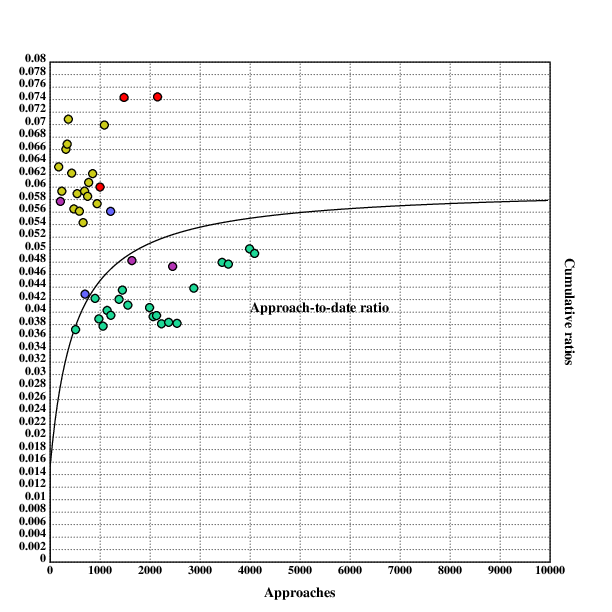
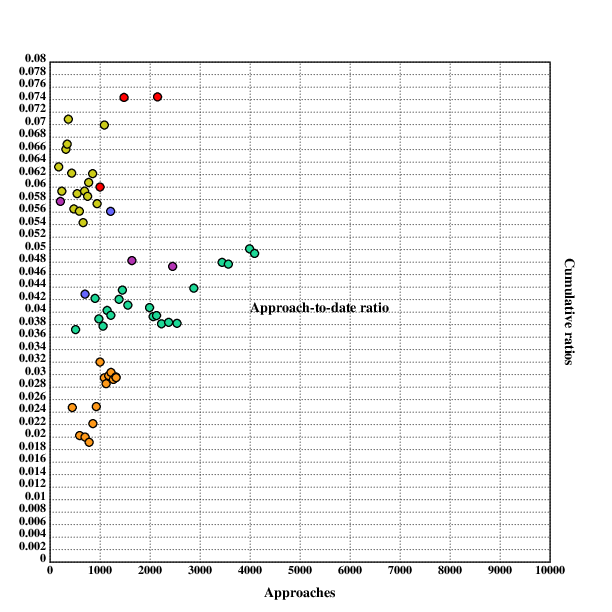
Two quotes on attention spans, and 44 blogposts.

diff --git a/texts_list.md b/texts_list.md
@@ -1,7 +1,7 @@
 [home](./index.md)
 -------------------
 
-*author: niplav, created: 2020-06-25, modified: 2023-03-22, language: english, status: in progress, importance: 1, confidence: log*
+*author: niplav, created: 2020-06-25, modified: 2023-03-28, language: english, status: in progress, importance: 1, confidence: log*
 
 > __Texts I have read since May 2017.__
 
@@ -17,6 +17,44 @@ comments or tweets, because that would be too extensive.
 A '\*' prefix signifies I'm still reading the
 text, a '|123' prefix shows I abandoned reading the text at page 123.
 
+* [Beware over-use of the agent model (Alex Flint, 2021)](https://www.lesswrong.com/posts/2QuAcx8XQw7rrXzGC/beware-over-use-of-the-agent-model)
+* [Gravity Turn (alkjash, 2021)](https://www.lesswrong.com/posts/QcXuwQvvPkqcKZmXS/gravity-turn)
+* [Going Out With Dignity (Tomás B., 2021)](https://www.lesswrong.com/posts/CBWSDdzjqfnexBurB/going-out-with-dignity)
+* [Curing insanity with malaria (Miranda Dxon-Luinenburg, 2021)](https://www.lesswrong.com/posts/AH3iGfz4ArJnXEEYs/curing-insanity-with-malaria)
+* [RadVac Commercial Antibody Test Results (johnswentworth, 2021)](https://www.lesswrong.com/posts/Mqy4GFqJoMSfs8raA/radvac-commercial-antibody-test-results)
+* [Testing The Natural Abstraction Hypothesis: Project Intro (johnswentworth, 2021)](https://www.lesswrong.com/posts/cy3BhHrGinZCp3LXE/testing-the-natural-abstraction-hypothesis-project-intro)
+* [Book Review: A Pattern Language by Christopher Alexander (lincolnquirk, 2021)](https://www.lesswrong.com/posts/K2AWPo7sMsvrrofsM/book-review-a-pattern-language-by-christopher-alexander)
+* [Selection Has A Quality Ceiling (johnswentworth, 2021)](https://www.lesswrong.com/posts/Rrt7uPJ8r3sYuLrXo/selection-has-a-quality-ceiling)
+* [Making Vaccine (johnswentworth, 2021)](https://www.lesswrong.com/posts/niQ3heWwF6SydhS7R/making-vaccine)
+* [Fun with +12 OOMs of Compute (Daniel Kokotajlo, 2021)](https://www.lesswrong.com/posts/rzqACeBGycZtqCfaX/fun-with-12-ooms-of-compute)
+* [Your Cheerful Price (Eliezer Yudkowsky, 2021)](https://www.lesswrong.com/posts/MzKKi7niyEqkBPnyu/your-cheerful-price)
+* Do we have your attention (Bobby Duffy/Marion Thain, 2022)
+* [A few thought on the inner ring (Katja Grace, 2021)](https://www.lesswrong.com/posts/ycrreLRsaANhYxZmC/a-few-thought-on-the-inner-ring)
+* [The Most Important Century: Sequence Introduction (Holden Karnofsky, 2021)](https://www.lesswrong.com/posts/yHzDrTCum4rdNRDJJ/the-most-important-century-sequence-introduction)
+* [The feeling of breaking an Overton window (Anna Salamon, 2021)](https://www.lesswrong.com/posts/bzhGBHrGrFfQss4Df/the-feeling-of-breaking-an-overton-window)
+* [Unwitting cult leaders (Kaj Sotala, 2021)](https://www.lesswrong.com/posts/o9dnstYoc7cwpgdhg/unwitting-cult-leaders)
+* [Precognition (Jason Crawford, 2021)](https://www.lesswrong.com/posts/yyDrMYBfvYtKbmPmm/precognition)
+* [Law of No Evidence (Zvi, 2021)](https://www.lesswrong.com/posts/j9HoG56Y6KuopSzdn/law-of-no-evidence)
+* [The Point of Trade (Eliezer Yudkowsky, 2021)](https://www.lesswrong.com/posts/6KzFwcDy7hsCkzJKY/the-point-of-trade)
+* [Bets, Bonds, and Kindergarteners (jefftk, 2021)](https://www.lesswrong.com/posts/DoHcgTvyxdorAMquE/bets-bonds-and-kindergarteners)
+* [Worst-case thinking in AI alignment (Buck Shlegeris, 2021)](https://www.lesswrong.com/posts/yTvBSFrXhZfL8vr5a/worst-case-thinking-in-ai-alignment)
+* [Simulacrum 3 As Stag-Hunt Strategy (johnswentworth, 2021)](https://www.lesswrong.com/posts/tF8z9HBoBn783Cirz/simulacrum-3-as-stag-hunt-strategy)
+* [Elephant seal 2 (Katja Grace, 2021)](https://www.lesswrong.com/posts/vLRxmYCKpmZAAJ3KC/elephant-seal-2)
+* [Working With Monsters (johnswentworth, 2021)](https://www.lesswrong.com/posts/o4cgvYmNZnfS4xhxL/working-with-monsters)
+* [The Rationalists of the 1950s (and before) also called themselves “Rationalists” (Owain Evans, 2021)](https://www.lesswrong.com/posts/DtcbfwSrcewFubjxp/the-rationalists-of-the-1950s-and-before-also-called)
+* [How To Write Quickly While Maintaining Epistemic Rigor (johnswentworth, 2021)](https://www.lesswrong.com/posts/Psr9tnQFuEXiuqGcR/how-to-write-quickly-while-maintaining-epistemic-rigor)
+* [Cryonics signup guide #1: Overview (mingyuan, 2021)](https://www.lesswrong.com/posts/2cYebKxNp47PapHTL/cryonics-signup-guide-1-overview)
+* [Selection Theorems: A Program For Understanding Agents (johnswentworth, 2021)](https://www.lesswrong.com/posts/G2Lne2Fi7Qra5Lbuf/selection-theorems-a-program-for-understanding-agents)
+* [All Possible Views About Humanity's Future Are Wild (Holden Karnofsky, 2021)](https://www.lesswrong.com/posts/F5ktR95qqpmGXXmLq/all-possible-views-about-humanity-s-future-are-wild-1)
+* [Taboo "Outside View" (Daniel Kokotajlo, 2021)](https://www.lesswrong.com/posts/BcYfsi7vmhDvzQGiF/taboo-outside-view)
+* [Science in a High-Dimensional World (johnswentworth, 2021)](https://www.lesswrong.com/posts/4XRjPocTprL4L8tmB/science-in-a-high-dimensional-world)
+* [Lies, Damn Lies, and Fabricated Options (Duncan Sabien, 2021)](https://www.lesswrong.com/posts/gNodQGNoPDjztasbh/lies-damn-lies-and-fabricated-options)
+* [The heritability of human values: A behavior genetic critique of Shard Theory (Geoffrey Miller, 2022)](https://www.lesswrong.com/posts/dRsrfC8LN4z2oehJg/the-heritability-of-human-values-a-behavior-genetic-critique)
+* [A shot at the diamond-alignment problem (TurnTrout, 2022)](https://www.lesswrong.com/s/nyEFg3AuJpdAozmoX/p/k4AQqboXz8iE5TNXK)
+* [2019 News (Gwern Branwen, 2023)](https://gwern.net/newsletter/2019/13)
+* [All Watched Over by Machines of Loving Grace (Richard Brautigan, 1967)](http://www.brautigan.net/machines.html)
+* [Contra shard theory, in the context of the diamond maximizer problem (So8res, 2022)](https://www.lesswrong.com/posts/Aet2mbnK7GDDfrEQu/contra-shard-theory-in-the-context-of-the-diamond-maximizer)
+* [Alignment allows "nonrobust" decision-influences and doesn't require robust grading (TurnTrout, 2022)](https://www.lesswrong.com/s/nyEFg3AuJpdAozmoX/p/rauMEna2ddf26BqiE)
 * [Rationalists Are Less Credulous But Better At Taking Ideas Seriously (Scott Alexander, 2014)](https://www.lesswrong.com/posts/Gh2qQHrCg3teQen3c/rationalists-are-less-credulous-but-better-at-taking-ideas)
 * [What should you change in response to an "emergency"? And AI risk (Anna Salamon, 2022)](https://www.lesswrong.com/posts/mmHctwkKjpvaQdC3c/what-should-you-change-in-response-to-an-emergency-and-ai)
 * [Oceanic (Greg Egan, 1999)](https://www.gregegan.net/OCEANIC/Complete/Oceanic.html)
@@ -51,7 +89,7 @@ text, a '|123' prefix shows I abandoned reading the text at page 123.
 * [Human values & biases are inaccessible to the genome (TurnTrout, 2022)](https://www.lesswrong.com/s/nyEFg3AuJpdAozmoX/p/CQAMdzA4MZEhNRtTp)
 * [Humans provide an untapped wealth of evidence about alignment (Quintin Pope/Turntrout, 2022)](https://www.lesswrong.com/s/nyEFg3AuJpdAozmoX/p/CjFZeDD6iCnNubDoS)
 * [PVLV (English Wikipedia, 2022)](https://en.wikipedia.org/wiki/PVLV)
-* \* Convex Optimization (Lieven Vandenberghe/Stephen Boyd, 2008)
+* Convex Optimization (Lieven Vandenberghe/Stephen Boyd, 2008)
 * [The Main Sources of AI Risk? (Daniel Kokotajlo/Wei Dai, 2019)](https://www.alignmentforum.org/posts/WXvt8bxYnwBYpy9oT/the-main-sources-of-ai-risk)
 * [AI Safety Needs Social Scientists (Amanda Askell/Geoffrey Irving, 2019)](https://distill.pub/2019/safety-needs-social-scientists/)
 * [How to Use t-SNE Effectively (Fernanda Viegas/Ian Johnson/Martin Wattenberg, 2016)](https://distill.pub/2016/misread-tsne/)
@@ -197,7 +235,7 @@ text, a '|123' prefix shows I abandoned reading the text at page 123.
 * [Scientists Parse Ocean’s Dynamic Role in Climate Change (Natalie Wolchover, 2013)](https://www.quantamagazine.org/scientists-parse-oceans-role-in-climate-change-20130411/)
 * [A New Approach to Building the Tree of Life (Emily Singer, 2013)](https://www.quantamagazine.org/a-new-approach-to-building-the-tree-of-life-20130604/)
 * [Tiny Genomes May Offer Clues to First Plants and Animals (Emily Singer, 2013)](https://www.quantamagazine.org/tiny-genomes-may-offer-clues-to-first-plants-and-animals-20130620/)
-* * Der Vorrang der Demokratie vor der Philosophie (Richard Rorty, 1988)
+* \* Der Vorrang der Demokratie vor der Philosophie (Richard Rorty, 1988)
 * [Simulators (janus, 2022)](https://generative.ink/posts/simulators/)
 * [I'm an SaR Officer... (Update #2) (searchandrescuewoods, 2016)](https://old.reddit.com/r/nosleep/comments/4r835f/im_an_sar_officer_update_2/)
 * [I'm An SaR Officer... (Update 1) (searchandrescuewoods, 2016)](https://old.reddit.com/r/nosleep/comments/4r2kvl/im_an_sar_officer_update_1/)

diff --git a/spans.md b/spans.md
@@ -238,6 +238,11 @@ slightly different things for me to pick one and drill down on.
 What Are the Existing Investigations?
 -------------------------------------
 
+> A lack of long-term studies means we can't tell whether attention
+spans have actually declined.
+
+*—Bobby Duffy & Marion Thain, [“Do we have your attention”]()<!--TODO--> p. 5, 2022*
+
 * [Gausby 2015](./doc/psychology/attention_span/attention_spans_gausby_et_al_2015.pdf)
 	* Questions answered:
 		* Sustained attention:
@@ -280,6 +285,19 @@ interaction consisting of the military or the stock exchange.
 	* While it investigates a question different from the one I have, this paper seems good and trustworthy to me, while supporting a suspicion I've had (observing that the lifecycle of e.g. memes has apparently sped up significantly). I'd be interested in seeing whether the same process holds for internet communities I'm part of (for example on votes [LessWrong](https://www.lesswrong.com/) and the [EA Forum](https://forum.effectivealtruism.org/) or forecasts on [Metaculus](https://www.metaculus.com/)).
 
 ![Chart indicating how the speed at which hashtags become popular changed over the years. Four plots (yellow, green, blue and purple) which form a peak in the middle and fall off at the sides. The yellow line is highest around the peak, the green one is lower, blue even lower and purple the lowest.](./img/spans/popularity_ascent.png "Chart indicating how the speed at which hashtags become popular changed over the years. Four plots \(yellow, green, blue and purple\) which form a peak in the middle and fall off at the sides. The yellow line is highest around the peak, the green one is lower, blue even lower and purple the lowest.")
+
+Do People Believe Attention Spans Have Declined?
+-------------------------------------------------
+
+> Half of the public feel their attention span is shorter than it used
+to be, compared with around a quarter (23%) who believe they are just
+attentive [sic] as they've always been.
+>
+> Again, the feeling of is not just reported by the young — it's
+also the dominant feeling among the middle aged too, with 56% of 35-
+to 54-year-olds thinking their attention spans have worsened.
+
+*—Bobby Duffy & Marion Thain, [“Do we have your attention”]()<!--TODO--> p. 6, 2022*
 
 What About Rates of ADHD?
 --------------------------
@@ -540,3 +558,9 @@ actually reflects the average time a person will spend on a web page
 before looking somewhere else.
 
 *—Neil A. Bradbury, [“Attention span during lectures: 8 seconds, 10 minutes, or more?”](./doc/psychology/attention_span/attention_span_during_lectures_8_seconds_10_minutes_or_more_bradbury_2016.pdf), 2016*
+
+Appendix B: Studies for a Meta-Analysis
+----------------------------------------
+
+* Association between urine cotinine levels, continuous performance test variables, and attention deficit hyperactivity disorder and learning disability symptoms in school-aged children (B.-N. Kim/E.-J. Park/H.-J.Yoo/I.-H. Cho/J.-H. Lee/J. Hur/J.-W. Kim/M.-H. Park/M.-S. Shin/S.-B. Hong/S.-C. Cho/S.-K. Han/S. Park/S.-Y. Bhang/Y.-C. Hong, 2012): n=989 Korean children (mean age 9.1±0.7 years), tested with an unspecified CPT
+* Cognitive control in media multitaskers (Anthony D. Wagner/Clifford Nass/Eyal Ophir, 2009): n=28 (?), tested with the AX-CPT

diff --git a/language.md b/language.md
@@ -390,7 +390,7 @@ Better Words
 <!--TODO: links and a planecrash quote-->
 
 * [dist(s)](https://en.wikipedia.org/wiki/Probability_Distribution): 8 syllables saved compared to "probability distribution(s)"
-* [prob](https://en.wikipedia.org/wiki/Probability): 4 syllables saved over "probability", closest colliding word is [prop](https://en.wikipedia.org/wiki/prop_\(disambiguation\)), none of which are particularly common
+* [prob](https://en.wikipedia.org/wiki/Probability): 4 syllables saved over "probability", closest colliding word is [prop](https://en.wikipedia.org/wiki/prop_\(disambiguation\)), which is not particularly common
 * [vopi](https://en.wikipedia.org/wiki/Expected_value_of_perfect_information): 10 syllables saved over "expected value of perfect information", alternative spellings could be "evopi" or "evoi" or "voi" (removing perfection or expectation)
 * [batna](https://en.wikipedia.org/wiki/Best_alternative_to_a_negotiated_agreement): 13 syllables saved over "Best alternative to a negotiated agreement", perhaps acustically too close to "batman"
 * [botec](https://en.wikipedia.org/wiki/Back-of-the-envelope_calculation): 8 syllables saved over "back-of-the-envelope calculation"

diff --git a/favorites.md b/favorites.md
@@ -76,7 +76,7 @@ final pushes for me to do something in a particular direction):
 	* [Cryonics − Frequently Asked Questions (FAQ) (Ben Best, 2018)](http://www.benbest.com/cryonics/CryoFAQ.html)
 * Pickup
 	* [Cold Approach: Why It’s a Massive Cheat Code to the Dating Life You Desire](https://looksmax.org/threads/cold-approach-why-its-a-massive-cheat-code-to-the-dating-life-you-desire.330030/) ([video version](https://www.youtube.com/watch?v=kEAQ8dB4_R4))
-	* [You only see the tip of the spear (TheRedQuest, 2019)](https://theredquest.wordpress.com/2019/02/07/you-only-see-the-tip-of-the-spear/index.html)
+	* [You only see the tip of the spear (TheRedQuest, 2019)](https://theredquest.wordpress.com/2019/02/07/you-only-see-the-tip-of-the-spear/)
 	* [A lot of guys are pussies, but that means opportunity for the few who aren’t (TheRedQuest, 2022)](https://theredquest.wordpress.com/2022/02/23/a-lot-of-guys-are-pussies-but-that-means-opportunity-for-the-few-who-arent/)
 	* [Guide to Texting Girls (Mr. V, 2020)](./doc/game/guide_to_texting_girls_mr_v_2020.pdf)
 * Finance

diff --git a/daygame_cost_benefit.md b/daygame_cost_benefit.md
@@ -1,7 +1,7 @@
 [home](./index.md)
 -------------------
 
-*author: niplav, created: 2019-12-25, modified: 2023-03-20, language: english, status: in progress, importance: 4, confidence: remote*
+*author: niplav, created: 2019-12-25, modified: 2023-03-28, language: english, status: in progress, importance: 4, confidence: remote*
 
 > __Is daygame worth it, and if yes,
 how much? I first present a simple [point
@@ -427,6 +427,7 @@ https://old.reddit.com/r/seduction/comments/9ock2a/my_daygame_experience_so_far_
 * Blue: Mr. White
 * Purple: Thomas Crown
 * Red: Krauser
+* Orange: Mr. Wolfe
 
 The plotted data for lay ratios looks like this:
 
@@ -468,6 +469,11 @@ The plotted data for lay ratios looks like this:
 
 	fillrgb(1;0;0)
 	scplot2(klayrat)
+
+	:"Data for Mr. Wolfe ratios"
+
+	fillrgb(1.0;0.6;0.1)
+	scplot2(wlayrat)
 
 	draw()
 
@@ -513,6 +519,11 @@ Similarly, the data for reported date ratios:
 
 	fillrgb(1;0;0)
 	scplot2(kdaterat)
+
+	:"Data for Mr. Wolfe ratios"
+
+	fillrgb(1.0;0.6;0.1)
+	scplot2(wdaterat)
 
 	draw()
 

diff --git a/now.md b/now.md
@@ -1,7 +1,7 @@
 [home](./index.md)
 ------------------
 
-*author: niplav, created: 2019-07-24, modified: 2022-07-19, language: english, status: in progress, importance: 2, confidence: highly likely*
+*author: niplav, created: 2019-07-24, modified: 2023-03-27, language: english, status: in progress, importance: 2, confidence: highly likely*
 
 > __What I am doing at the moment (inspired by the
 > [now movement](https://nownownow.com/about)).__
@@ -70,7 +70,6 @@ Reading
 
 Currently, I am actively reading the following books:
 
-* Convex Optimization (Lieven Vandenberghe/Stephen Boyd, 2008)
 * Starting Strength (Lon Kilgore/Mark Rippetoe, 2007)
 * Die toten Seelen (Nikolai Gogol, 1842)
 * Sämtliche Gedichte und Balladen (Friedrich Schiller, 1805)

diff --git a/todo.md b/todo.md
@@ -339,6 +339,7 @@ Texts
 	* If the future optimization trajectory along a dimension in the limit moves the value of that dimension to the maximum/minimum, don't do that.
 	* The optimal amount of anything is not the most extreme amount
 * Capable Artificial Alignment Theorists Appear Plausible
+* Shard Theory and the Indirect Realist Turn
 
 ### Pick Up
 
@@ -1999,6 +2000,7 @@ Wikipedia Articles
 Lesswrong wiki
 ---------------
 
+* Add tag for Interpretability & Mechanistic Interpretability
 * [Textbook recommendations](https://www.lesswrong.com/posts/xg3hXCYQPJkwHyik2/the-best-textbooks-on-every-subject) into wiki page
 	* same for:
 		* [Boring Advice Repository](https://www.lesswrong.com/posts/HEn2qiMxk5BggN83J/boring-advice-repository)

diff --git a/changelog.md b/changelog.md
@@ -21,7 +21,7 @@ with fecundity.
 March 2023
 -----------
 
-* [Iqisa: A Library For Handling Forecasting Datasets](./iqisa.md), [documentation](./iqisadoc.md)
+* [Iqisa: A Library For Handling Forecasting Datasets](./iqisa.md), [Documentation](./iqisadoc.md)
 * [Notes](./notes.md)
 	* [The Price of Inadequacy](./notes.html#The_Price_of_Inadequacy)
 	* [High Status Eschews Quantification of Performance](./notes.html#High_Status_Eschews_Quantification_of_Performance)
